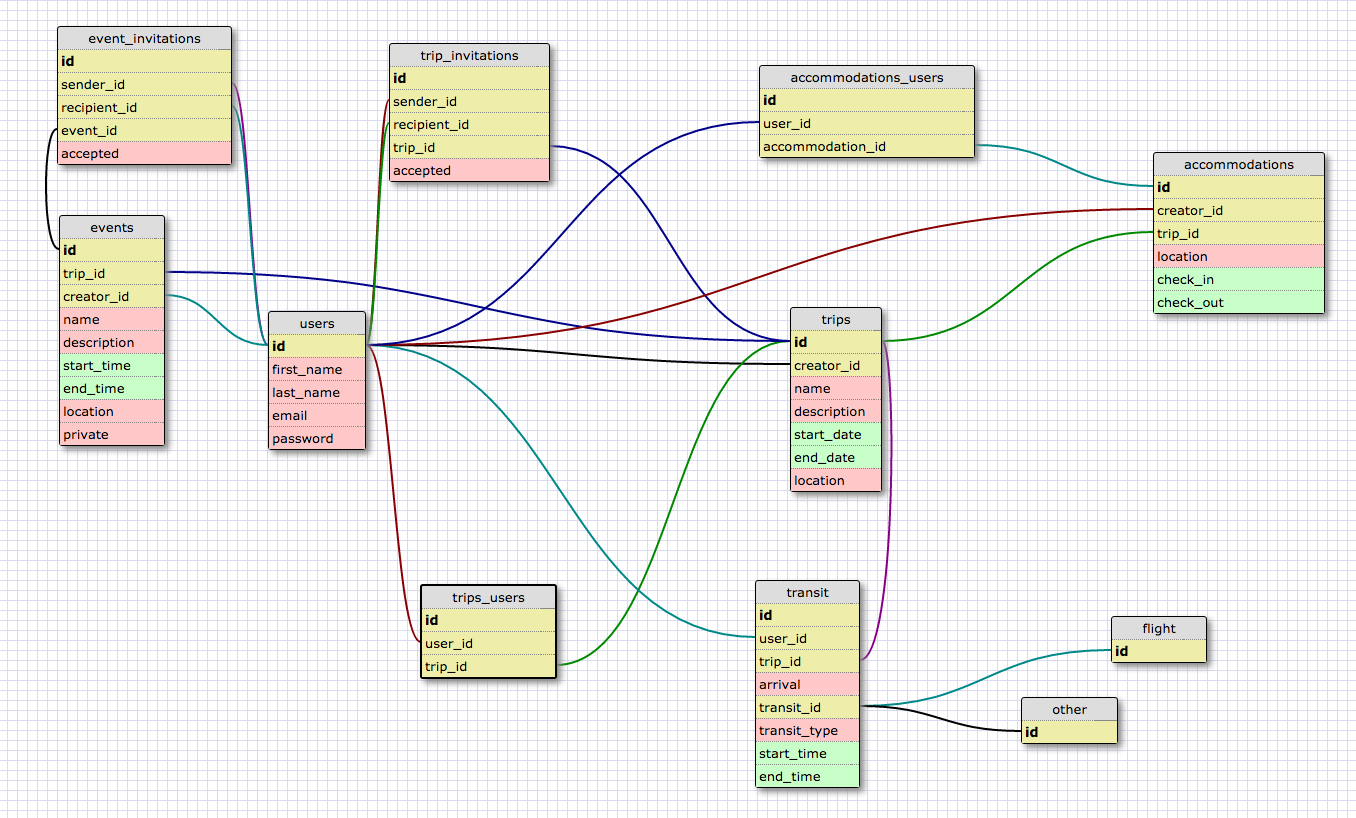
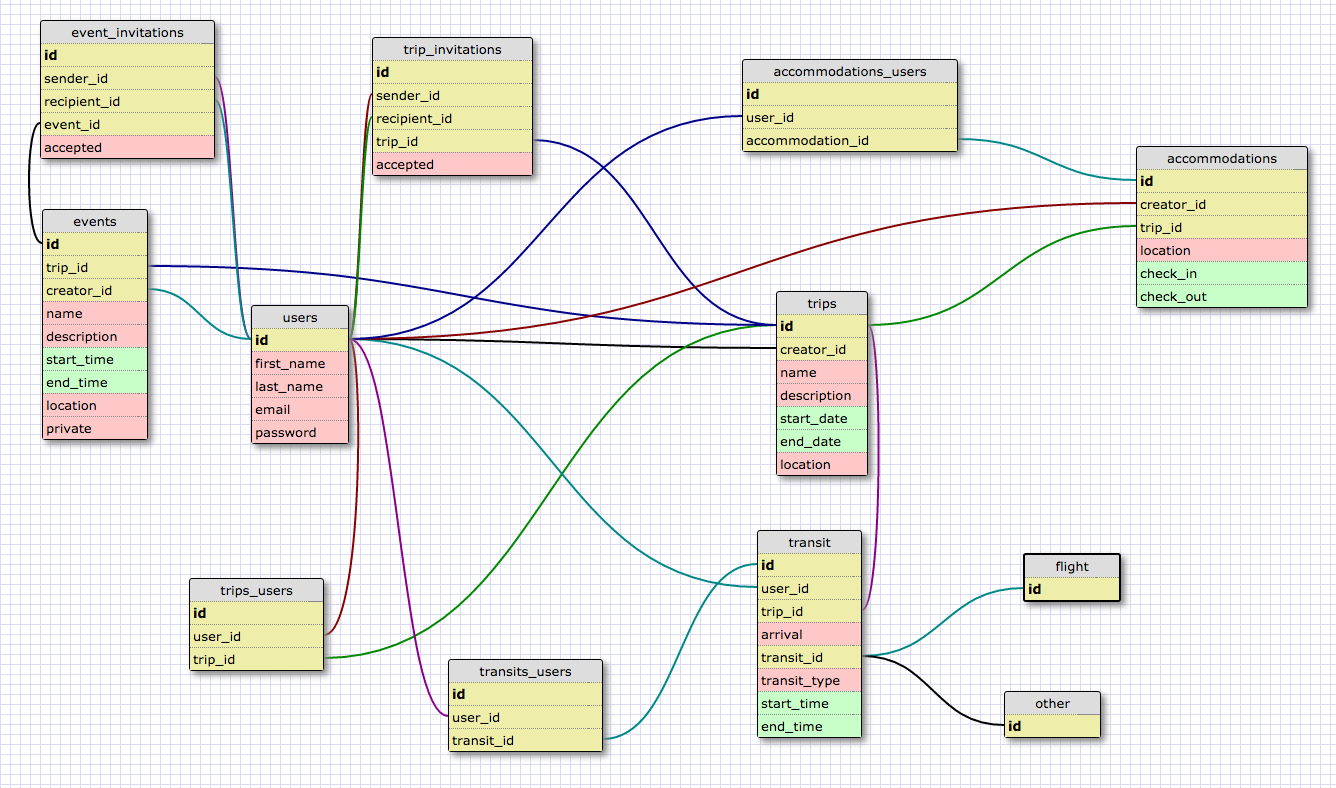
Add many-to-many association for Transits and Users; write and pass tests

diff --git a/spec/models/user_spec.rb b/spec/models/user_spec.rb
@@ -9,15 +9,29 @@ RSpec.describe User, type: :model do
   end
 
   describe "associations" do
+    describe "trips" do
     it {should have_and_belong_to_many(:trips)}
-    it {should have_and_belong_to_many(:accommodations)}
     it {should have_many(:created_trips).with_foreign_key('creator_id').class_name('Trip')}
-    it {should have_many(:created_events).with_foreign_key('creator_id').class_name('Event')}
-    it {should have_many(:created_accommodations).with_foreign_key('creator_id').class_name('Accommodation')}
-    it {should have_many(:sent_event_invitations).with_foreign_key('sender_id').class_name('EventInvitation')}
-    it {should have_many(:received_event_invitations).with_foreign_key('recipient_id').class_name('EventInvitation')}
     it {should have_many(:sent_trip_invitations).with_foreign_key('sender_id').class_name('TripInvitation')}
     it {should have_many(:received_trip_invitations).with_foreign_key('recipient_id').class_name('TripInvitation')}
+    end
+
+    describe "accommodations" do
+    it {should have_and_belong_to_many(:accommodations)}
+    it {should have_many(:created_accommodations).with_foreign_key('creator_id').class_name('Accommodation')}
+    end
+
+    describe "transits" do
+    it { should have_and_belong_to_many(:transits) }
+    it { should have_many(:created_transits).with_foreign_key('creator_id').class_name('Transit') }
+    end
+
+    describe "events" do
+    it {should have_many(:created_events).with_foreign_key('creator_id').class_name('Event')}
+    it {should have_many(:sent_event_invitations).with_foreign_key('sender_id').class_name('EventInvitation')}
+    it {should have_many(:received_event_invitations).with_foreign_key('recipient_id').class_name('EventInvitation')}
+    end
+
   end
 
 end

diff --git a/app/models/user.rb b/app/models/user.rb
@@ -1,11 +1,22 @@
 class User < ApplicationRecord
+  # trips
   has_and_belongs_to_many :trips
-  has_and_belongs_to_many :accommodations
   has_many :created_trips, foreign_key: "creator_id", class_name: "Trip"
-  has_many :created_events, foreign_key: "creator_id", class_name: "Event"
-  has_many :created_accommodations, foreign_key: "creator_id", class_name: "Accommodation"
-  has_many :sent_event_invitations, foreign_key: "sender_id", class_name: "EventInvitation"
-  has_many :received_event_invitations, foreign_key: "recipient_id", class_name: "EventInvitation"
   has_many :sent_trip_invitations, foreign_key: "sender_id", class_name: "TripInvitation"
   has_many :received_trip_invitations, foreign_key: "recipient_id", class_name: "TripInvitation"
+
+  # accommodations
+  has_and_belongs_to_many :accommodations
+  has_many :created_accommodations, foreign_key: "creator_id", class_name: "Accommodation"
+
+  # transits
+  has_and_belongs_to_many :transits
+  has_many :created_transits, foreign_key: "creator_id", class_name: "Transit"
+
+  # events
+  has_many :created_events, foreign_key: "creator_id", class_name: "Event"
+  has_many :sent_event_invitations, foreign_key: "sender_id", class_name: "EventInvitation"
+  has_many :received_event_invitations, foreign_key: "recipient_id", class_name: "EventInvitation"
+
+
 end

diff --git a/db/schema.rb b/db/schema.rb
@@ -10,7 +10,7 @@
 #
 # It's strongly recommended that you check this file into your version control system.
 
-ActiveRecord::Schema.define(version: 20160924230705) do
+ActiveRecord::Schema.define(version: 20160925011207) do
 
   # These are extensions that must be enabled in order to support this database
   enable_extension "plpgsql"
@@ -63,15 +63,18 @@ ActiveRecord::Schema.define(version: 20160924230705) do
   end
 
   create_table "transits", force: :cascade do |t|
-    t.integer  "user_id"
+    t.integer  "creator_id"
     t.integer  "trip_id"
     t.boolean  "arrival"
-    t.integer  "transit_id"
-    t.string   "transit_type"
     t.datetime "start_time"
     t.datetime "end_time"
-    t.datetime "created_at",   null: false
-    t.datetime "updated_at",   null: false
+    t.datetime "created_at", null: false
+    t.datetime "updated_at", null: false
+  end
+
+  create_table "transits_users", force: :cascade do |t|
+    t.integer "user_id"
+    t.integer "transit_id"
   end
 
   create_table "trip_invitations", force: :cascade do |t|

diff --git a/spec/models/transit_spec.rb b/spec/models/transit_spec.rb
@@ -2,12 +2,19 @@ require 'rails_helper'
 
 RSpec.describe Transit, type: :model do
   describe "attributes" do
-    it { should have_db_column(:user_id) }
+    it { should have_db_column(:creator_id) }
     it { should have_db_column(:trip_id) }
     it { should have_db_column(:arrival) }
-    it { should have_db_column(:transit_id) }
-    it { should have_db_column(:transit_type) }
+    # Polymorphic associations to be implemented after MVP
+    # it { should have_db_column(:transit_id) }
+    # it { should have_db_column(:transit_type) }
     it { should have_db_column(:start_time) }
     it { should have_db_column(:end_time) }
+  end
+
+  describe "associations" do
+    it { should have_and_belong_to_many(:users) }
+    it { should belong_to(:creator).class_name('User') }
+    it { should belong_to(:trip) }
   end
 end

diff --git a/db/migrate/20160923180331_create_transits.rb b/db/migrate/20160923180331_create_transits.rb
@@ -1,11 +1,11 @@
 class CreateTransits < ActiveRecord::Migration[5.0]
   def change
     create_table :transits do |t|
-      t.integer :user_id
+      t.integer :creator_id
       t.integer :trip_id
       t.boolean :arrival
-      t.integer :transit_id
-      t.string :transit_type
+      # t.integer :transit_id
+      # t.string :transit_type
       t.datetime :start_time
       t.datetime :end_time
 

diff --git a/spec/factories/transits.rb b/spec/factories/transits.rb
@@ -1,10 +1,10 @@
 FactoryGirl.define do
   factory :transit do
-    user_id 1
+    creator_id 1
     trip_id 1
     arrival false
-    transit_id 1
-    transit_type "MyString"
+    # transit_id 1
+    # transit_type "MyString"
     start_time "2016-09-23 11:03:31"
     end_time "2016-09-23 11:03:31"
   end

diff --git a/db/migrate/20160924230705_create_accommodations_users.rb b/db/migrate/20160924230705_create_accommodations_users.rb
@@ -1,4 +1,4 @@
-class CreateAccommodationsUsers < ActiveRecord::Migration[5.0]
+  class CreateAccommodationsUsers < ActiveRecord::Migration[5.0]
   def change
     create_table :accommodations_users do |t|
       t.integer :user_id

diff --git a/spec/models/trip_spec.rb b/spec/models/trip_spec.rb
@@ -16,5 +16,6 @@ RSpec.describe Trip, type: :model do
     it {should have_many(:trip_invitations)}
     it {should have_many(:events)}
     it {should have_many(:accommodations)}
+    it {should have_many(:transits)}
   end
 end

diff --git a/db/migrate/20160925011207_create_transits_users.rb b/db/migrate/20160925011207_create_transits_users.rb
@@ -1,0 +1,8 @@
+class CreateTransitsUsers < ActiveRecord::Migration[5.0]
+  def change
+    create_table :transits_users do |t|
+      t.integer :user_id
+      t.integer :transit_id
+    end
+  end
+end

diff --git a/app/models/transit.rb b/app/models/transit.rb
@@ -1,2 +1,5 @@
 class Transit < ApplicationRecord
+  has_and_belongs_to_many :users
+  belongs_to :creator, class_name: "User"
+  belongs_to :trip
 end

diff --git a/app/models/trip.rb b/app/models/trip.rb
@@ -4,4 +4,5 @@ class Trip < ApplicationRecord
   has_many :trip_invitations
   has_many :events
   has_many :accommodations
+  has_many :transits
 end
